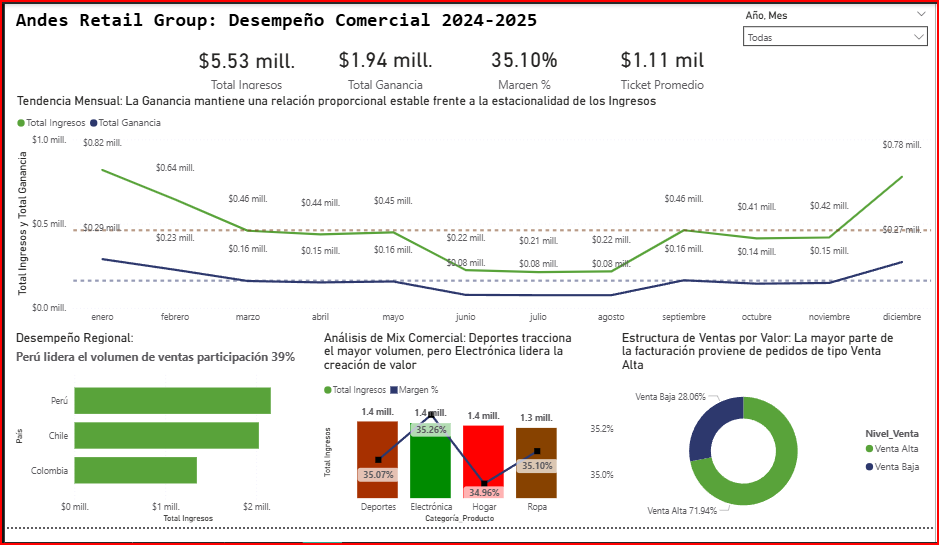
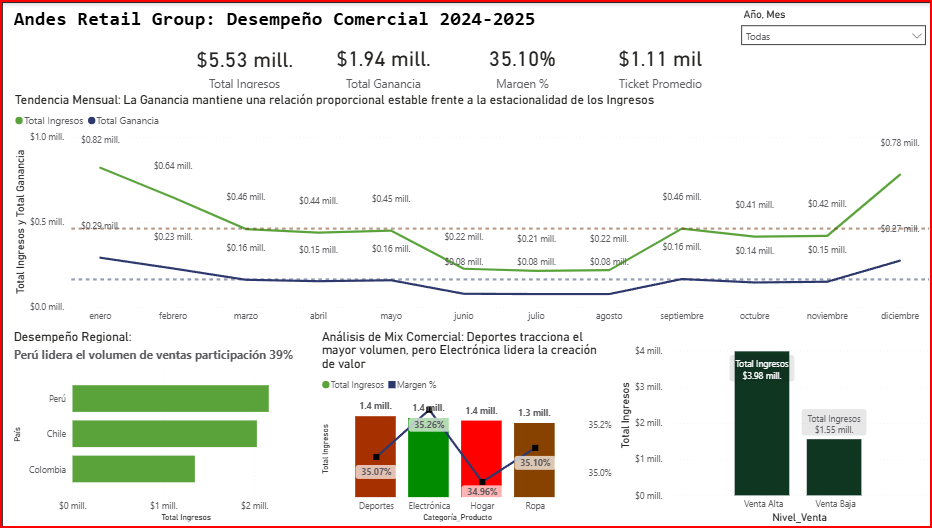
Layout Update: Overview dashboard now features Bar Charts instead of Rings for Quality of Sale (Audit-compliant)

diff --git a/README.md b/README.md
@@ -16,7 +16,7 @@ Este repositorio contiene el desarrollo integral de un Dashboard de Inteligencia
 
 - **S (Situación):** Andes Retail Group ha consolidado **$5.53 millones** en ingresos con un margen robusto del **35.10%** y una ganancia total de **$1.94M**. Perú lidera con el 39% de participación.
 - **C (Complicación):** Se identifica una volatilidad estacional crítica. Deportes ($1.44M) concentra picos, pero en Invierno la calidad del ticket colapsa un **68%** ($549 vs. $1,721 en Verano).
-- **A (Respuesta):** Se rediseñó la visualización eliminando gráficos de anillos (Donuts) por **Barras Apiladas Horizontales** (Sprint 10 standard). Se recomienda implementar **Bundling estratégico** (Electrónica + Ropa) para restaurar el ticket a $1,100+.
+- **A (Respuesta):** Se eliminaron gráficos circulares en favor de un **Gráfico de Barras** para una comparación lineal clara de la calidad de venta ($3.98M Venta Alta vs $1.55M Venta Baja). Se recomienda implementar **Bundling estratégico** para elevar el ticket promedio a $1,100+.
 
 ### 🔍 Vista Detalle y Análisis de Segmentación
 
